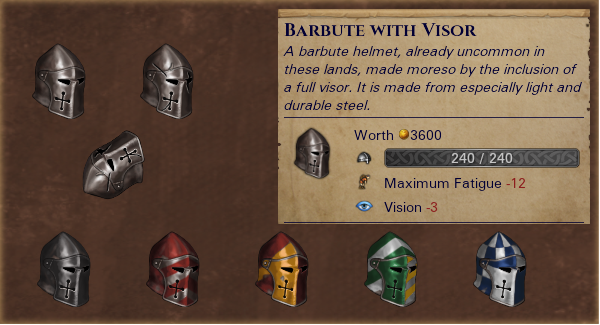
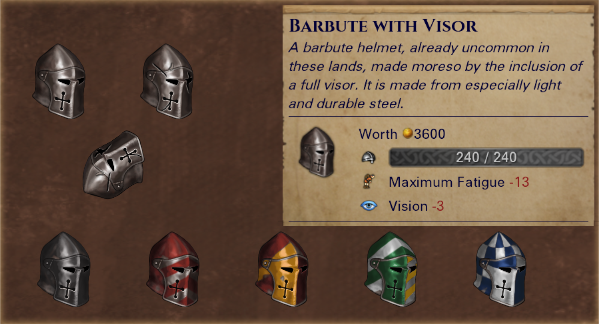
Release 3.2
- Add Reinforced Padded Armor
- Touch up Southern Conic Helmet with Closed Mail assets
- Rebalance Barbute with Visor to 240/-13 (from 240/-12)

Changed region(s): [[0.45, 0.0, 0.99, 0.7077]]

diff --git a/README.md b/README.md
@@ -16,10 +16,11 @@ A mod for the game Battle Brothers ([Steam](https://store.steampowered.com/app/3
 
 Adds new equipment to the game, including:
 
+- **[Reinforced Padded Armor](./screenshots/ReinforcedPaddedArmorItemCard.png)**, a new 100/-9 armor styled after some old event artwork. Spawns on Assassins.
 - **[Hood with Mouth Piece](./screenshots/HoodWithMouthPieceItemCard.png)**, a kitbashed 40/0 piece of headgear with 2 color variants. Spawns on Killers on the Run and Brigand Marksman.
 - **[Masked Nomad Light Helmet](./screenshots/MaskedLightNomadHelmetItemCard.png)**, a 90/-4 piece of headgear with 8 color variants and a named version. Spawns on Nomad Outlaws and recruitable Nomads, the named version is only appears in shops/loot.
 - **[Southern Conic Helmet with Closed Mail](./screenshots/SouthernConicHelmetWithClosedMailItemCard.png)**, a 235/-15 helmet southern helmet. Spawns in City-State Armorsmiths and on Officers.
-- **[Barbute with Visor](./screenshots/BarbuteWithVisorItemCard.png)**, a 240/-12 helmet with 5 color variants (it's paintable!). Spawns (very occasionally) in Armorsmiths, just like the regular barbute.
+- **[Barbute with Visor](./screenshots/BarbuteWithVisorItemCard.png)**, a 240/-13 helmet with 5 color variants (it's paintable!). Spawns (very occasionally) in Armorsmiths, just like the regular barbute.
 - **[Plumed Bascinet with Visor](./screenshots/BascinetWithVisorItemCard.png)**, a 270/-18 helmet to match the the Blazing Deserts cover art. Spawns in Armorsmiths and on Hedge Knights.
 - **[Closed Conic Helmet](./screenshots/ClosedConicHelmetItemCard.png)**, a 3 tiered set of helms to match the Closed Flat Top Helmets (145/-8, 160/-9, and 250/-16). Spawns in Armorsmiths, and some varieties can spawn on Mercenaries.
 - **[Iron Pot Helm](./screenshots/IronPotHelmItemCard.png)**, a 330/-28 helmet with 5 color variants (it's also paintable!). Spawns (very occasionally)in Armorsmiths.

diff --git a/screenshots/README.md b/screenshots/README.md
@@ -1,5 +1,9 @@
 # Screenshots
 
+## Reinforced Padded Armor
+
+<img src="./ReinforcedPaddedArmorItemCard.png" width="600">
+
 ## Hood with Mouth Piece
 
 <img src="./HoodWithMouthPieceItemCard.png" width="600">
@@ -10,7 +14,7 @@
 
 ## Southern Conic Helmet with Closed Mail
 
-<img src="./SouthernConicHelmetWithClosedMailItemCard.png" width="600">
+<img src="./SouthernConicHelmetWithClosedMailV2ItemCard.png" width="600">
 
 ## Barbute with Visor
 
